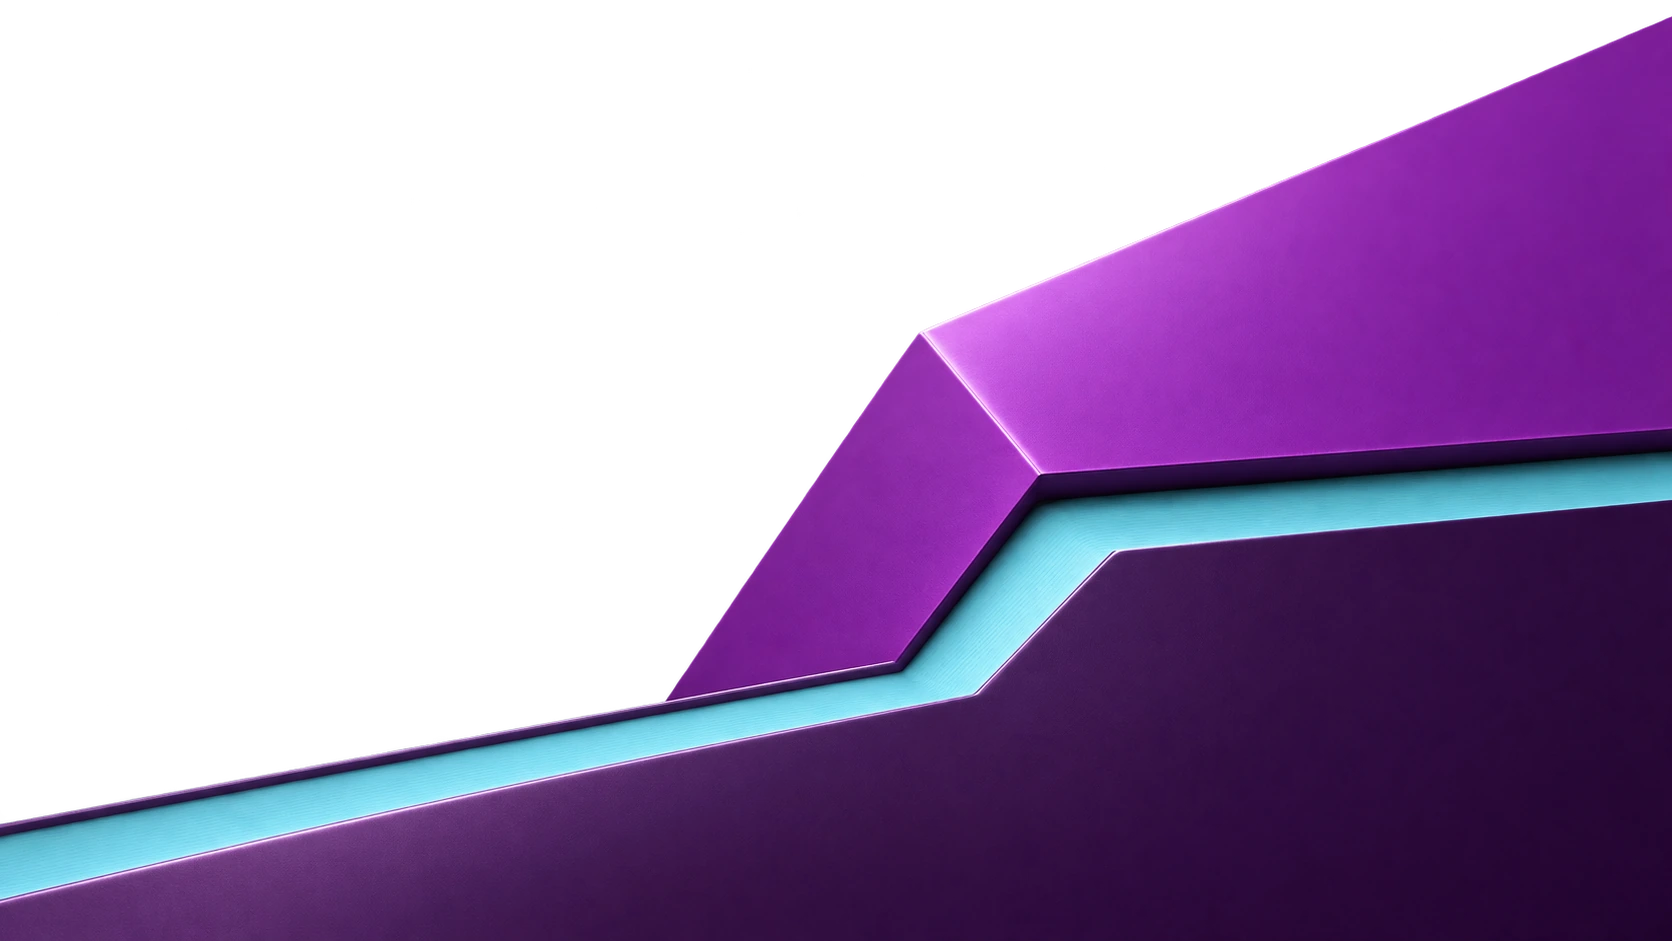
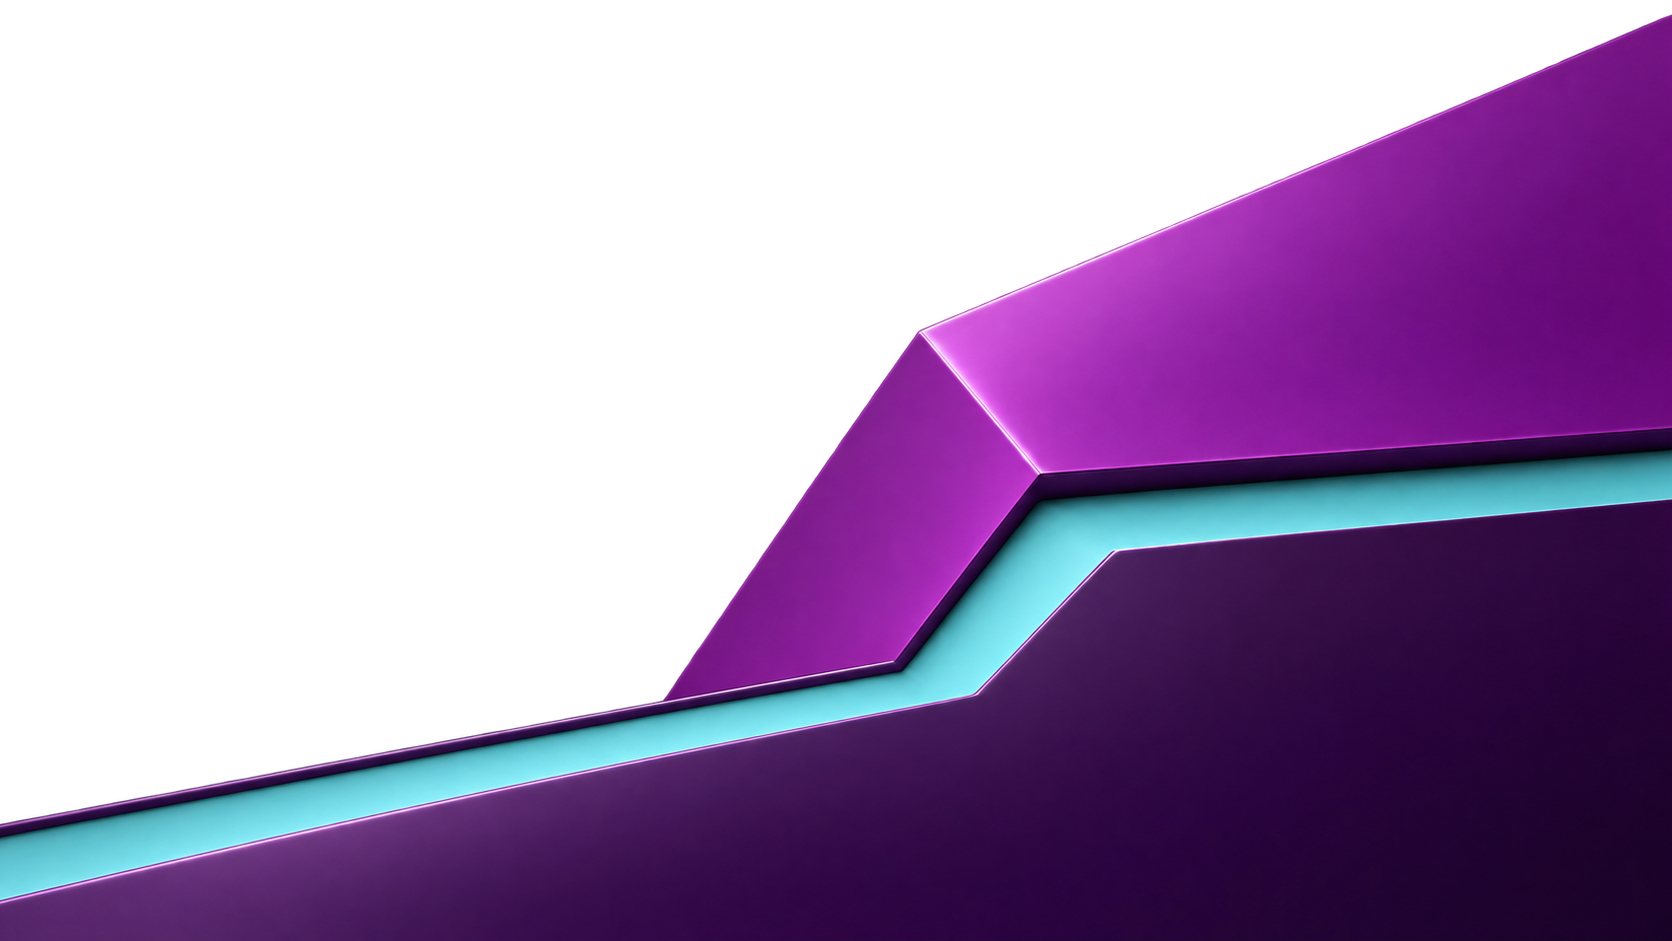
Fix hero contrast and preserve artwork quality

diff --git a/src/styles/home.css b/src/styles/home.css
@@ -294,7 +294,7 @@ h1 { font-size: clamp(72px, 7.3vw, 112px); line-height: 1.02; hyphens: none; }
 
 /* Phones retain a deliberate crop of the material below the immediately readable copy. */
 @media (max-width: 1100px) and (min-width: 761px) {
-  .opening { min-height: 680px; padding-block: 56px 80px; }
+  .opening { min-height: 0; padding-block: 56px 0; }
   .opening h1 { font-size: clamp(56px, 7.4vw, 80px); }
   .hero-description { max-width: 34ch; }
 }
@@ -305,7 +305,7 @@ h1 { font-size: clamp(72px, 7.3vw, 112px); line-height: 1.02; hyphens: none; }
   .hero-description { margin-top: 24px; max-width: 40ch; font-size: 18px; }
   .hero-actions { margin-top: 24px; }
 }
-@media (min-width: 761px) and (max-height: 820px) {
+@media (min-width: 1101px) and (max-height: 820px) {
   .opening { min-height: 620px; padding-block: 40px 72px; }
   .opening h1 { font-size: clamp(56px, 6.8vw, 96px); }
 }

diff --git a/DESIGN.md b/DESIGN.md
@@ -352,7 +352,7 @@ All three authored families are self-hosted WOFF2 files with `font-display: swap
 
 | Role | Use and responsive behavior |
 | --- | --- |
-| Display | The hero alone uses `clamp(72px, 7.3vw, 112px)` with 1.02 line height. From 761px through 1100px it uses `clamp(56px, 7.4vw, 80px)`; at 760px and below it uses `clamp(44px, 12.8vw, 80px)`. At widths of at least 761px and heights of at most 820px, `clamp(56px, 6.8vw, 96px)` overrides the desktop size. These intentional hero-only exceptions do not replace the shared display tokens or sidecar specimens. |
+| Display | The hero alone uses `clamp(72px, 7.3vw, 112px)` with 1.02 line height. From 761px through 1100px it uses `clamp(56px, 7.4vw, 80px)`; at 760px and below it uses `clamp(44px, 12.8vw, 80px)`. At widths of at least 1101px and heights of at most 820px, `clamp(56px, 6.8vw, 96px)` overrides the desktop size. These intentional hero-only exceptions do not replace the shared display tokens or sidecar specimens. |
 | Headline | Main section headings use the default role. History, paired benefits, and closing panels have their own documented scales. Benefits become 34px at 1000px and 36px on phones. History and closing become 42px on phones; closing becomes 36px at 390px. |
 | Title / body / lead | Capability and workflow headings use 21px at weight 600. Main prose stays 18px. The hero lead becomes 18px below 1000px. Capability and workflow prose use 17px; capability line height is 1.7 and workflow inherits 1.65. |
 | Labels and application names | Illustration labels stay at least 16px. Transport names use 24px. The masthead brand steps through 29, 26, 23, and 21px. |
@@ -364,9 +364,9 @@ The hero explanation has a 38ch maximum, becoming 34ch from 761px through 1100px
 
 ## Layout
 
-The homepage's centered shell stops at 1536px and uses the fluid gutter token. The ruled masthead has an 88px minimum height, reducing to 72px on phones. The hero extends to the viewport edges, with a 760px minimum height and 72px top / 96px bottom padding. Its local horizontal gutter is `max(clamp(24px, 4.5vw, 72px), calc((100vw - 1392px) / 2))`. Left-aligned copy occupies the relief's open upper-left area, capped at 760px wide. The action group follows the explanation with 32px of space. The absolute artwork fills the hero, cropping from center bottom; the hero clips overflow.
+The homepage's centered shell stops at 1536px and uses the fluid gutter token. The ruled masthead has an 88px minimum height, reducing to 72px on phones. The hero extends to the viewport edges, with a 760px minimum height and 72px top / 96px bottom padding. Its local horizontal gutter is `max(clamp(24px, 4.5vw, 72px), calc((100vw - 1392px) / 2))`. Left-aligned copy occupies the relief's open upper-left area, capped at 760px wide. The action group follows the explanation with 32px of space. The absolute artwork stretches to the desktop field with object-fit: fill, preserving its normalized negative space so wide viewports cannot crop the relief across text. The hero clips overflow.
 
-From 761px through 1100px, the hero has a 680px minimum height and 56px top / 80px bottom padding. At widths of at least 761px and viewport heights of at most 820px, the later height-aware rule overrides these values with a 620px minimum height and 40px top / 72px bottom padding. At 760px and below, left-aligned copy precedes a full-width 280px artwork crop, with no minimum hero height, 48px top padding, no bottom padding, and a 24px gutter. The crop uses `object-position: 70% bottom`. At 480px and below, it becomes 208px tall; the image is 135% of the crop's width and height, bottom-aligned and offset left by 17.5%. Its local overflow is visible so the angled upper silhouette is preserved; the outer hero still clips page overflow. At 390px and below, the gutter becomes 20px. These measurements are local to the hero and bring the following IDE section closer on short screens.
+From 761px through 1100px, the hero stacks its 280px artwork below the copy, with no minimum height and 56px top / zero bottom padding. At widths of at least 1101px and viewport heights of at most 820px, the later height-aware rule overrides these values with a 620px minimum height and 40px top / 72px bottom padding. At 760px and below, left-aligned copy precedes a full-width 280px artwork crop, with no minimum hero height, 48px top padding, no bottom padding, and a 24px gutter. The artwork uses object-fit: fill above 480px to preserve the angled silhouette. At 480px and below, it uses cover with `object-position: 70% bottom` and becomes 208px tall; the image is 135% of the crop's width and height, bottom-aligned and offset left by 17.5%. Its local overflow is visible so the angled upper silhouette is preserved; the outer hero still clips page overflow. At 390px and below, the gutter becomes 20px. These measurements are local to the hero and bring the following IDE section closer on short screens.
 
 The wide history panel uses a 1:1.05 grid, 80px gap, and 64px padding. The pure-boundary and transport benefits follow in a 1.08:1 pair, separated by a quiet rule with 64px of space on either side. Their illustrations sit below the prose, aligned by the flex layout. The framework section uses a split heading row above six compact capabilities in three columns; capabilities have no individual card surfaces. The agent section pairs its introduction with a three-step vertical workflow in a 1:1.1 grid and 112px gap. A broad closing field contains the heading, repeated documentation action, and original logo.
 
@@ -419,7 +419,7 @@ The masthead pairs the original logo and name with Documentation, Resources, Git
 
 ### Hero artwork and history illustrations
 
-`HeroArtwork` uses the true-alpha `public/images/home/hero-relief.webp` (1672 by 941px, approximately 102KB), with generation provenance in `public/images/home/hero-relief.webp.json`. The decorative composition has empty alternative text and is hidden from assistive technology. It frames the original promise, plain programming-language description, and existing actions in one full-width scene. It is conceptual brand material, not a teaching diagram or evidence of application behavior. The original navigation logo remains unchanged. One CSS entrance settles the image from `translateY(12px) scale(1.015)` to its completed position over 1100ms, using `cubic-bezier(.16, 1, .3, 1)`. It runs only when reduced motion is not requested, with no loop, controls, or JavaScript dependency. The final adversarial review found no remaining material visual blockers after the short-desktop and phone corrections. Owner acceptance remains pending.
+`HeroArtwork` uses the true-alpha `public/images/home/hero-relief.webp` (1672 by 941px, approximately 592KiB, lossless WebP), with generation provenance in `public/images/home/hero-relief.webp.json`. The decorative composition has empty alternative text and is hidden from assistive technology. It frames the original promise, plain programming-language description, and existing actions in one full-width scene. It is conceptual brand material, not a teaching diagram or evidence of application behavior. The original navigation logo remains unchanged. One CSS entrance settles the image from `translateY(12px) scale(1.015)` to its completed position over 1100ms, using `cubic-bezier(.16, 1, .3, 1)`. It runs only when reduced motion is not requested, with no loop, controls, or JavaScript dependency. The owner called the composition better, then rejected its contrast and compression quality. The subsequent repair removes grain from the source and preserves visible pixels through lossless encoding; desktop sizing and the earlier tablet stack protect text from artwork collisions. The source remains 1672px wide, not native 4K. Review evidence is in `.impeccable/reviews/homepage-hero-quality-2026-11-16/`.
 
 `HomepageVisual` now renders the three lower semantic figures: history, pure decisions, and transport choice. The former application and shipping-rule hero figures are superseded. These lower figures retain their HTML text, authored SVG, accessible descriptions, and existing composition.
 

diff --git a/.impeccable/reviews/homepage-hero-quality-2026-11-16/review.md b/.impeccable/reviews/homepage-hero-quality-2026-11-16/review.md
@@ -1,0 +1,38 @@
+# Hero contrast and image-quality review
+
+## Finding
+
+The owner's contrast complaint is reproducible. The artwork crosses actual text at wider desktop and intermediate tablet sizes. Passing checks at 1440px and 390px did not cover that geometry. The asset also combines source texture, lossy encoding damage, and insufficient native resolution for large high-density screens. These are separate causes.
+
+Review scope: homepage hero only. Preserve the owner's improved composition direction, original identity, headline, category sentence, actions, and later sections. Latest feedback authorizes correcting contrast and image finish, not replacing the whole art direction. Skills applied: local visual language, content review, Unslop, positioning, and design-feedback. The visitor should understand the language category and find the documentation action without the artwork weakening either.
+
+## Confirmed defects
+
+1. `HeroArtwork.astro` uses `object-fit: cover` with bottom alignment in a fixed-height field. As width grows, the source image grows vertically, then loses its upper negative space to cropping. At 2560x1440, the violet plane crosses the pixel headline and the cyan channel runs beneath the secondary action. At 1920x1080, the pixel word already meets the bright violet edge. At 820x900, the secondary link crosses the violet bevel. The cause is placement, not weak base palette values.
+2. Approximate contrast at fully colored glyph positions falls to 1.01:1 for the pixel word at 2560px in light mode, 1.13:1 for the secondary action at 2560px in dark mode, and 2.22:1 for the secondary action at 820px in light mode. On the intended plain background, those colors have strong contrast: pixel word 5.93:1 light and 7.38:1 dark; body 8.25:1 and 11.07:1; secondary action 16.94:1 and 18.08:1. These are estimates from actual screenshot glyph positions and decoded image coordinate mapping, not a complete accessibility audit.
+3. The 104,108-byte WebP visibly adds blocky grey/magenta fringes around the cutout's diagonal edges relative to the 1,326,618-byte original PNG. Alpha values are identical; the new damage is RGB encoding around the partial-alpha boundary. The original has a much cleaner edge. Interior texture also becomes coarse. Raw detail crops are retained for comparison.
+4. Both source and WebP are only 1672x941. At 2560 CSS pixels and DPR2, the artwork spans 5120 physical pixels, approximately 3.06 times its native width. Even lossless encoding cannot create missing detail. The original itself also contains dense generated grain and milling texture, so a higher WebP quality setting alone cannot remove the noisy finish.
+
+## Selected repair and evidence boundary
+
+Keep the composition. Preserve its negative-space proportions instead of cropping them away on desktop; move the material below the copy at intermediate widths. Do not add a text-shadow, dark overlay, glow, or global palette change to hide a geometry defect. Test full-width fill for the abstract relief and inspect its physical shape at 2560px. A capped centered image would leave cutout edges inside the page, so it is a poorer first repair.
+
+The parent's built-in fidelity edit was visually inspected at `/Users/nick/.codex/generated_images/01a1e42a-85b1-7c23-8a86-53921c19753a/exec-1048d003-6d2b-493e-9757-4638f213af10.png`. It preserves the silhouette and joins, and materially reduces grain and milling texture. It remains 1672x941. It must not be called native 4K or claimed to solve all high-density resolution limits. Lossless WebP is appropriate to preserve its boundary colors without repeating the compression damage.
+
+## Evidence
+
+Sixteen DPR2 captures cover 2560x1440, 1920x1080, 1440x1000, 1280x800, 1100x820, 1024x768, 820x900, and 390x844, each in dark and light themes. They are `before-{width}-{theme}.png`. Geometry and computed colors are in `render-metrics.json`; approximate glyph contrast results in `contrast-estimates.json`; source/encoding comparison in `encoding-comparison.json`. `original-detail.png`, `webp-detail.png`, and `repaired-detail.png` isolate the same material detail. These files are review evidence, not production assets.
+
+## First repair verification
+
+The repaired desktop geometry and earlier stack breakpoint remove the confirmed text/image collisions in all 16 checked cases, including the 1100/1101px boundary. The follow-up measures the actual rendered background by taking a second screenshot with the copy hidden, then samples beneath fully colored glyph pixels. Headline, pixel accent, paragraph, and secondary action now remain on the intended plain background: minimum measured contrast is 5.93:1 in light mode and 7.38:1 in dark mode. The original body contrast remains 8.25:1 light and 11.07:1 dark. No horizontal overflow was found. Results: `after-contrast.json`.
+
+The smoother source and lossless delivery visibly remove the coarse texture and blocky cutout fringe. The parent independently reports zero changed visible channels and preserved alpha against the edited PNG. The expanded relief retains believable joins at 2560px, although it becomes a broader, flatter composition than the narrower desktop crop. The composition remains coherent and keeps the user's accepted direction. A native 1672px raster still cannot provide true 1:1 pixel detail across a 5120-device-pixel viewport; the delivered improvement is removal of compression damage and noisy texture, not an increase in native source resolution.
+
+One introduced tablet defect requires correction before completion: the newly stacked 280px scene still uses cover at widths from 481px through 1100px. Its crop slices the upper plane into a horizontal edge immediately below the actions. Use the full-source fill treatment for that interval too, retaining the established close cover crop only at 480px and below. This is the same crop-boundary defect already solved on phones, not a request to reopen the composition.
+
+## Final verdict
+
+The tablet silhouette repair is resolved. Final 820px and 1100px captures in both themes show a continuous angled upper edge, readable actions, and no horizontal overflow. The actual-background contrast checks remain at least 5.93:1 in light mode and 7.38:1 in dark mode for the reviewed text. Evidence: `final-{820,1100}-{dark,light}.png` and `final-tablet-contrast.json`.
+
+The reported contrast and encoding defects are fixed in the inspected layouts. The smoother lossless image is visibly cleaner, and the material no longer interferes with the message. No further material visual correction is required for this scope. The native raster resolution limit remains documented; this review does not claim a 4K source, a full accessibility audit, or owner acceptance. Ready for the owner to inspect the working preview.

diff --git a/.impeccable/surfaces/src-pages-index-astro.md b/.impeccable/surfaces/src-pages-index-astro.md
@@ -19,11 +19,11 @@ Checkpoint: `12b2da80caab19fb0b24547ce2d1812f0de55e91`. The owner rejected the o
 
 The research inspected official Awwwards Site of the Day records and actual desktop and phone evidence for Terminal Industries, the original Superlist microsite, and Osmo's awarded 2025 composition. Osmo's award cover is distinguished from its later live redesign. The useful qualities are physical weight, type composed with material, and a deliberate close phone crop. The result is abstract brand material, closest to the Osmo relief reference. It does not explain application behavior, prove developer control, or establish award-level quality. The authentic visual IDE remains the next product evidence.
 
-`HeroArtwork.astro` displays `public/images/home/hero-relief.webp`, a true-alpha 1672 by 941px asset of approximately 102KB, with its prompt and provenance in `public/images/home/hero-relief.webp.json`. Thick satin-violet planes and one pale cyan inset channel frame calm upper-left space for the copy. The image extends to the hero's lower and right edges, with no card, giant logo, added glow, filters, concept labels, or fake interface. A literal architectural maquette was rejected during art review before this macro-relief treatment was selected.
+`HeroArtwork.astro` displays `public/images/home/hero-relief.webp`, a true-alpha 1672 by 941px smooth lossless asset of approximately 592KiB, with its prompt and provenance in `public/images/home/hero-relief.webp.json`. Thick satin-violet planes and one pale cyan inset channel frame calm upper-left space for the copy. The image extends to the hero's lower and right edges, with no card, giant logo, added glow, filters, concept labels, or fake interface. A literal architectural maquette was rejected during art review before this macro-relief treatment was selected.
 
-Desktop uses a full-width 760px minimum-height field with 72px top / 96px bottom padding and a headline reaching 112px. From 761px through 1100px, the field has a 680px minimum height, 56px top / 80px bottom padding, and an 80px headline ceiling. At widths of at least 761px and heights of at most 820px, a later rule sets a 620px minimum height, 40px top / 72px bottom padding, and a 96px headline ceiling. At 760px and below, left-aligned copy precedes a 280px full-width crop; headline size is `clamp(44px, 12.8vw, 80px)`. At 480px and below, the crop is 208px tall, with the image enlarged to 135%, bottom-aligned and shifted left by 17.5%. The phone artwork allows local overflow to preserve its angled top; the outer hero clips page overflow. These intentional hero-only values do not change shared tokens or authorize sidecar drift repair.
+Desktop uses a full-width 760px minimum-height field with 72px top / 96px bottom padding and a headline reaching 112px. From 761px through 1100px, the artwork stacks below the copy, with no minimum hero height, 56px top / zero bottom padding, and an 80px headline ceiling. At widths of at least 1101px and heights of at most 820px, a later rule sets a 620px minimum height, 40px top / 72px bottom padding, and a 96px headline ceiling. At 760px and below, left-aligned copy precedes a 280px full-width crop; headline size is `clamp(44px, 12.8vw, 80px)`. At 480px and below, the crop is 208px tall, with the image enlarged to 135%, bottom-aligned and shifted left by 17.5%. The phone artwork allows local overflow to preserve its angled top; the outer hero clips page overflow. These intentional hero-only values do not change shared tokens or authorize sidecar drift repair.
 
-One 1100ms settling entrance moves the image from a 12px vertical offset and 1.015 scale to its completed position. Reduced motion shows the still immediately. The initial rendered review requested the shorter laptop treatment and the closer 208px phone crop; both are now implemented. The final adversarial review found no remaining material visual blockers after the phone silhouette repair. Owner acceptance remains pending. Research and review evidence are retained in `.impeccable/reviews/homepage-cinematic-hero-2026-11-16/`.
+One 1100ms settling entrance moves the image from a 12px vertical offset and 1.015 scale to its completed position. Reduced motion shows the still immediately. The initial rendered review requested the shorter laptop treatment and the closer 208px phone crop; both are now implemented. The owner subsequently called the composition better but rejected its contrast and image quality. That feedback supersedes the earlier review verdict for those qualities. Artwork object-fit: fill above 480px preserves the complete angled silhouette and the open text area at wide sizes; the tablet stack prevents artwork from crossing actions. A smooth source edit and lossless encoding replace the grainy lossy artwork. The source remains 1672px wide, not native 4K. The quality review is in `.impeccable/reviews/homepage-hero-quality-2026-11-16/`. Research and review evidence are retained in `.impeccable/reviews/homepage-cinematic-hero-2026-11-16/`.
 
 ## Historical oversized-logo hero, 16 November 2026
 

diff --git a/.impeccable/reviews/homepage-hero-quality-2026-11-16/implementation.md b/.impeccable/reviews/homepage-hero-quality-2026-11-16/implementation.md
@@ -1,0 +1,19 @@
+# Hero contrast and image quality correction
+
+Checkpoint: `62553d2a744378e57c5720d32caba16a230caa87`. The owner called the composition better but rejected its contrast and compression quality, requesting a subagent review. The correction preserves the composition, copy and palette.
+
+## Causes and repairs
+
+The previous cover sizing cropped violet material under the pixel headline and cyan under the secondary action at wide sizes. At tablet widths, the violet silhouette crossed the secondary action. Changing foreground colors would not resolve these changing backgrounds. The relief now fills the desktop field without cover cropping, and stacks below the copy at widths up to 1100px. The tablet image also uses fill to preserve its complete angled silhouette. Only the existing close phone crop retains cover sizing.
+
+The original source already contained grain. Its lossy WebP encoding additionally introduced blocky colored fringes at transparent edges. A built-in image generation edit removed grain while preserving geometry and transparency. The edited source was encoded as lossless WebP. The resulting 605548-byte asset preserves every visible source color channel and the complete alpha channel. It replaces the previous 104108-byte lossy asset. Extra transfer size is intentional.
+
+Asset: `public/images/home/hero-relief.webp`. Exact edit prompt: [artwork-prompt.txt](artwork-prompt.txt), also recorded in the asset's JSON sidecar. The tool returned 1672 by 941px despite a higher-resolution request. This is a smoother, lossless asset, not a native 4K replacement. High-density ultrawide screens still interpolate the raster; no fake resolution increase or sharpening was applied.
+
+## Verification
+
+The independent review sampled actual rendered backgrounds under solid glyph pixels in both themes, including tablet and ultrawide sizes. The previous contrast approached 1:1 where art crossed text. Corrected minimum sampled contrast is 5.93:1 in light mode and 7.38:1 in dark mode; body text is 8.25:1 and 11.07:1 respectively. These measurements cover the inspected hero text, not a full-site accessibility certification.
+
+The normal build and all 20 tests pass. Parent browser checks cover 18 combinations from 320px through 2560px at device scale factor 2, with no overflow, loaded artwork, correct tablet stacking, reduced motion, and both working destinations. A final tablet-only correction removes a horizontal crop boundary; the final review checks that repair. Prompt provenance scan reports no missing prompt.
+
+The independent findings and final verdict are in [review.md](review.md). No publication was requested. Owner acceptance of the final repair remains pending.
